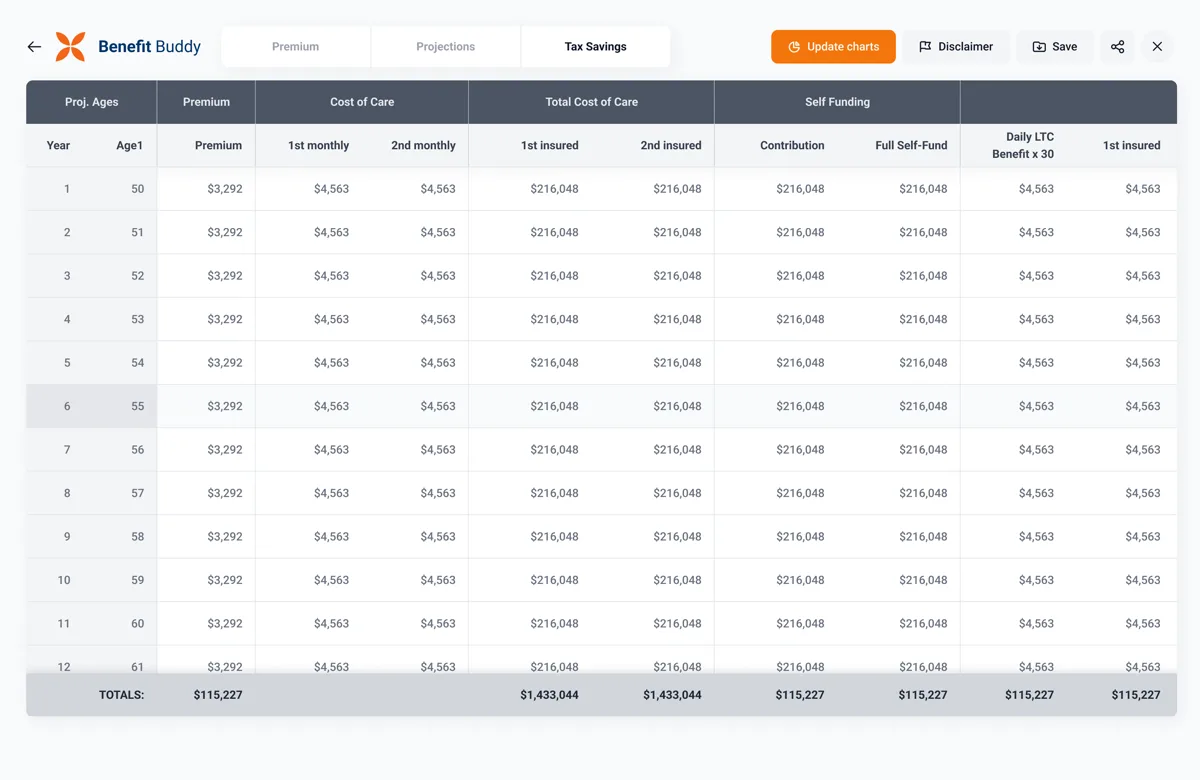
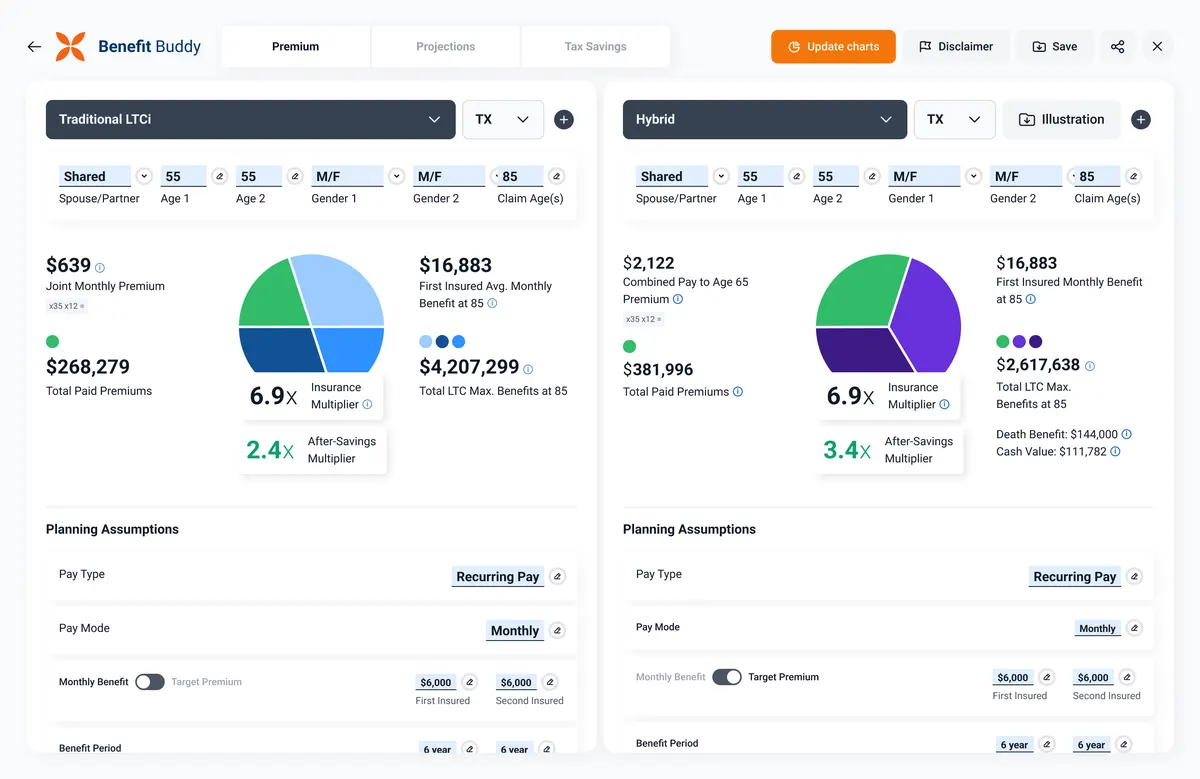
feat(case-study): BuddyIns shows the Excel model the web app replaced, labelled, beside the rebuilt view
Four captures sit in rows of two, like two do. The picture is Agilno's, used with their permission,
cropped above its disclaimer and contact line.

diff --git a/src/components/screens.tsx b/src/components/screens.tsx
@@ -29,7 +29,7 @@ export function zoomScroll(o: { fx: number; fy: number; width: number; height: n
 type Zoom = { i: number; width: number; left: number; top: number };
 
 /**
- * The extra captures of a case study: one large with the rest beside it (two sit side by side), or, for phone captures,
+ * The extra captures of a case study: one large with the rest beside it (two or four sit in rows of two), or, for phone captures,
  * each one whole and side by side. Every capture is a plain link to its file; with JavaScript a
  * click opens it in a lightbox instead. The lightbox is a native dialog, so Escape closes it, focus
  * stays inside it and goes back to the capture that opened it. Its pictures sit on one horizontal
@@ -43,8 +43,8 @@ export function Screens({
   lead,
 }: {
   title: string;
-  /** Each capture's file and the alt text that says what it shows. */
-  screens: { src: string; alt: string }[];
+  /** Each capture's file and the alt text that says what it shows. A label names one that is not of the product itself. */
+  screens: { src: string; alt: string; label?: string | undefined }[];
   phone?: boolean | undefined;
   /** The case study's lead picture, opened by a tap on it (see `OPEN_LEAD`). */
   lead?: { src: string; alt: string } | undefined;
@@ -115,7 +115,7 @@ export function Screens({
 
   return (
     <>
-      <ul className="sc-grid" data-phone={phone || undefined} data-pair={screens.length === 2 || undefined}>
+      <ul className="sc-grid" data-phone={phone || undefined} data-pair={screens.length === 2 || screens.length === 4 || undefined}>
         {screens.map((s, i) => (
           <li key={s.src} className="rise">
             <a
@@ -127,6 +127,7 @@ export function Screens({
               className="frame sc-frame"
             >
               <Image src={s.src} alt="" fill loading="lazy" sizes="(min-width: 1024px) 66vw, 100vw" className="object-cover object-top" />
+              {s.label && <span className="sc-label">{s.label}</span>}
             </a>
           </li>
         ))}

diff --git a/src/content/work.ts b/src/content/work.ts
@@ -23,6 +23,8 @@ export type CaseStudy = {
    * /images/work/<slug>-screen-N.webp shows. None of them repeats the opening picture.
    */
   screens: string[];
+  /** A picture of what the product replaced, at /images/work/<slug>-before.webp: shown first among the screens, under its label. */
+  before?: { alt: string; label: string };
   /** The screens are whole phone captures: shown uncropped, in portrait. */
   phone?: boolean;
   /** A 16:10 plate exists at /images/work/<slug>-plate.webp beside the image. Every featured study has one. */
@@ -217,10 +219,11 @@ export const WORK: CaseStudy[] = [
       { x: 20.6, y: 95.5, title: 'PayPal subscriptions gate the tools', text: 'Subscription checkout integrated end to end; the tier on the account unlocks sales tools.' },
     ],
     screens: [
-      'Benefit Buddy tax-savings table with yearly premiums, cost of care and self-funding',
       'Benefit Buddy premium view comparing two plans side by side, with charts',
+      'Benefit Buddy tax-savings table with yearly premiums, cost of care and self-funding',
       'Benefit Buddy plans page with a table of plans and case-study templates',
     ],
+    before: { alt: 'The Excel model BuddyIns used before the web app: plan inputs in cells and two pie charts comparing plans', label: 'Before: the Excel model' },
     featured: true,
   },
   {

diff --git a/src/app/work/[slug]/page.tsx b/src/app/work/[slug]/page.tsx
@@ -62,7 +62,10 @@ export default async function CaseStudyPage({ params }: { params: Promise<Params
     : hasPlate(study)
       ? { src: `/images/work/${study.slug}-plate.webp`, small: `/images/work/${study.slug}-plate-sm.webp`, width: 1920, height: 1200, alt: shot.alt }
       : { src: shot.src, small: undefined, width: shot.width, height: shot.height, alt: shot.alt };
-  const screens = study.screens.map((alt, i) => ({ src: `/images/work/${study.slug}-screen-${i + 1}.webp`, alt }));
+  const screens = [
+    ...(study.before ? [{ src: `/images/work/${study.slug}-before.webp`, ...study.before }] : []),
+    ...study.screens.map((alt, i) => ({ src: `/images/work/${study.slug}-screen-${i + 1}.webp`, alt })),
+  ];
 
   return (
     <article className="from-top">

diff --git a/src/app/globals.css b/src/app/globals.css
@@ -1479,7 +1479,20 @@ li + li > .callout {
     height: 100%;
   }
 }
-/* Two captures: equal halves from 640px, one under the other below. */
+/* Names a capture that is not of the product itself, such as what it replaced. */
+.sc-label {
+  position: absolute;
+  left: 0.75rem;
+  bottom: 0.75rem;
+  padding: 0.375rem 0.625rem;
+  border: 1px solid var(--color-border-default);
+  border-radius: var(--radius-sm);
+  background: var(--color-bg-base);
+  color: var(--color-text-primary);
+  font-size: 0.8125rem;
+  line-height: 1.25rem;
+}
+/* Two or four captures: rows of two equal halves from 640px, one under the other below. */
 .sc-grid[data-pair] {
   grid-template-columns: 1fr;
 }

diff --git a/src/components/screens.test.tsx b/src/components/screens.test.tsx
@@ -60,6 +60,14 @@ describe('Screens', () => {
   });
 });
 
+describe('Screens in rows of two', () => {
+  it('lays four captures out as pairs and shows a capture\'s label', () => {
+    const { container } = render(<Screens title="Demo" screens={[{ src: '/old.webp', alt: 'Demo before', label: 'Before: the old way' }, ...screens]} />);
+    expect(container.querySelector('.sc-grid')).toHaveAttribute('data-pair');
+    expect(screen.getByRole('link', { name: 'Demo before, view full size' })).toHaveTextContent('Before: the old way');
+  });
+});
+
 describe('Screens with the lead picture', () => {
   const lead = { src: '/lead.webp', alt: 'Lead' };
 

diff --git a/src/content/work.test.ts b/src/content/work.test.ts
@@ -26,6 +26,7 @@ describe('work content', () => {
       for (let i = 1; i <= w.screens.length; i++) {
         expect(existsSync(path.join(process.cwd(), 'public/images/work', `${w.slug}-screen-${i}.webp`)), `${w.slug} screen ${i}`).toBe(true);
       }
+      if (w.before) expect(existsSync(path.join(process.cwd(), 'public/images/work', `${w.slug}-before.webp`)), `${w.slug} before`).toBe(true);
     }
   });
 
